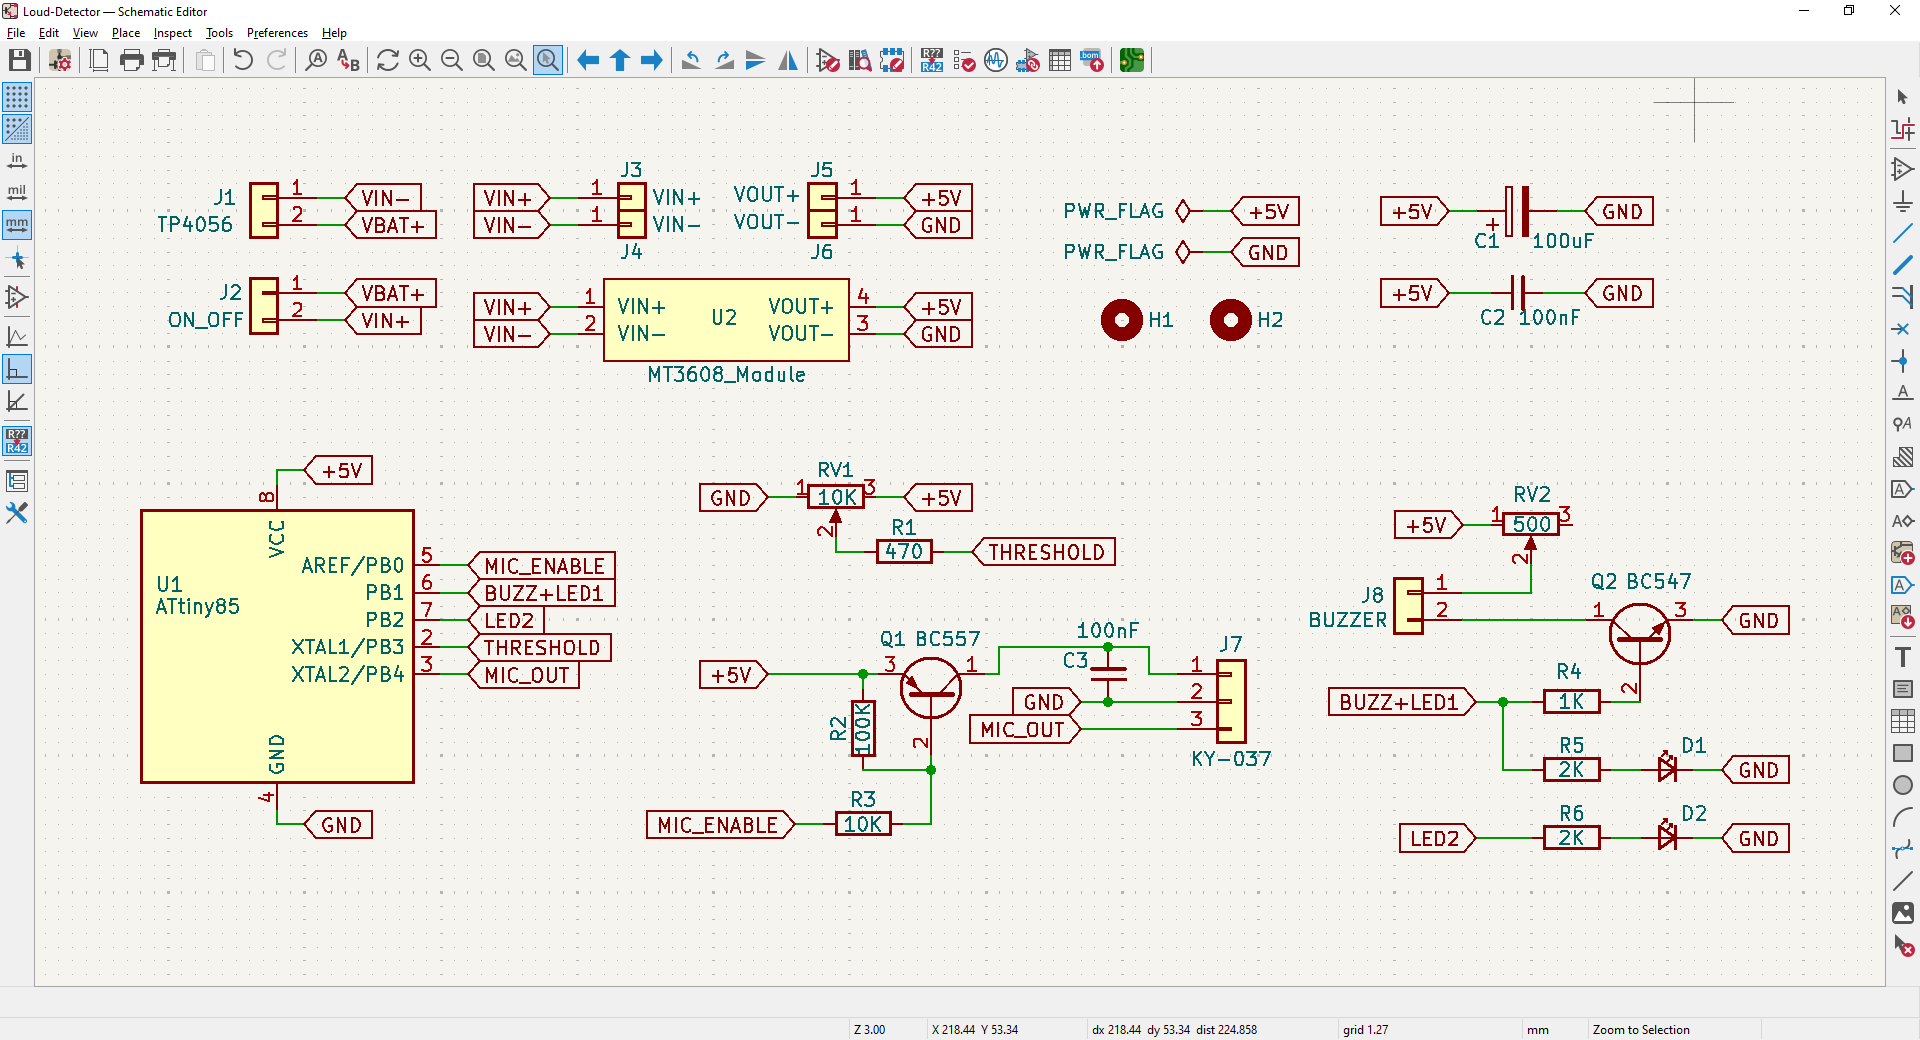
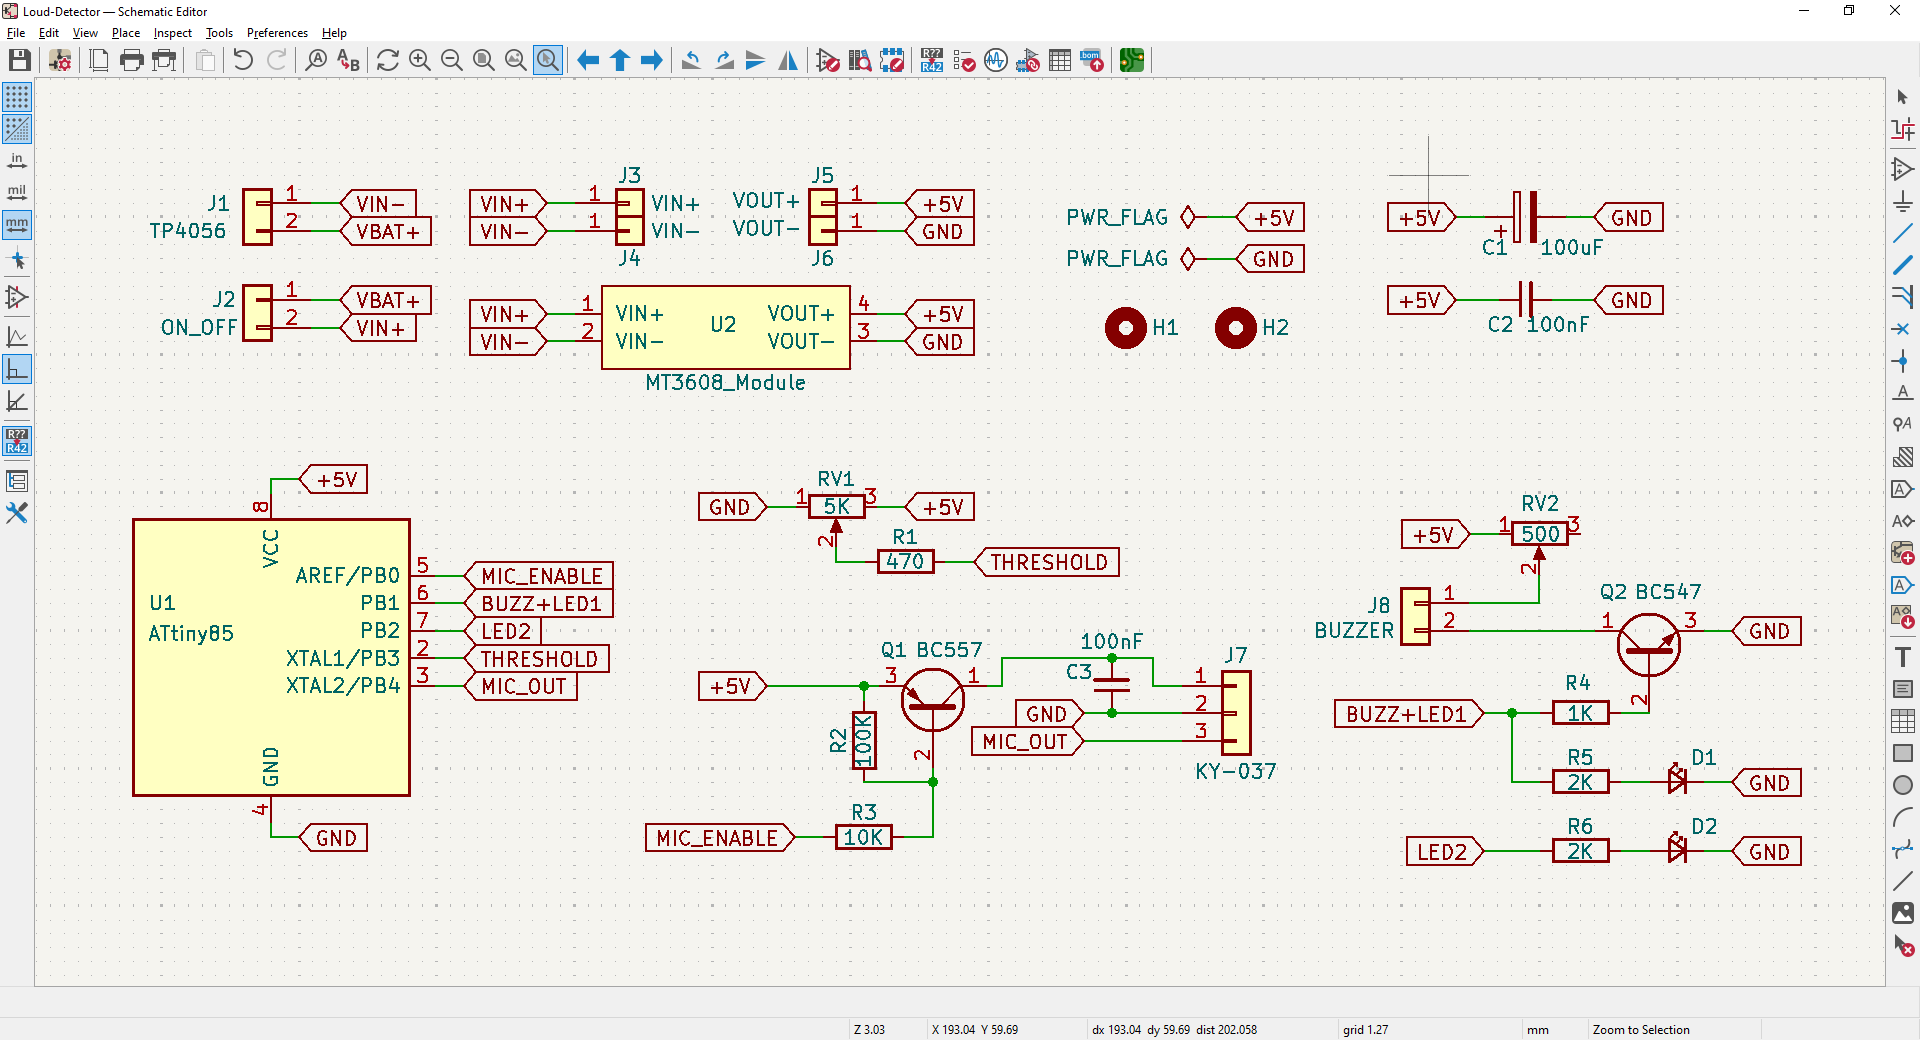
PCB minor improvements

diff --git a/Documentation/Loud-Detector PRD v1.0.md b/Documentation/Loud-Detector PRD v1.0.md
@@ -193,6 +193,13 @@ Resistencia mínima a GND 100–330Ω
   - Desactivar el BOD del ATtiny85
   - Desactivar Timer1 del ATtiny85 (revisar que no afecte al Buzzer)
 
+- Mejorar el rango útil de sensibilidad con:
+  - Hoy el trimmer se utiliza con el cursor al 25% (2.5k ohms) más allá del 50% no activa nunca
+  - Comprimir el rango (que RV1 nunca llegue a 0), para ganar sensibilida en el trimmer
+  - Para eso, agregar una resistencia en serie entre RV1 (su pata 1) y GND
+  - Valor ideal 2.2K
+  - Se puede "hilar fino" en el firmware ajustando THR_MIN_P2P / THR_MAX_P2P
+
 
 ## 14. Fuera de Alcance
 
